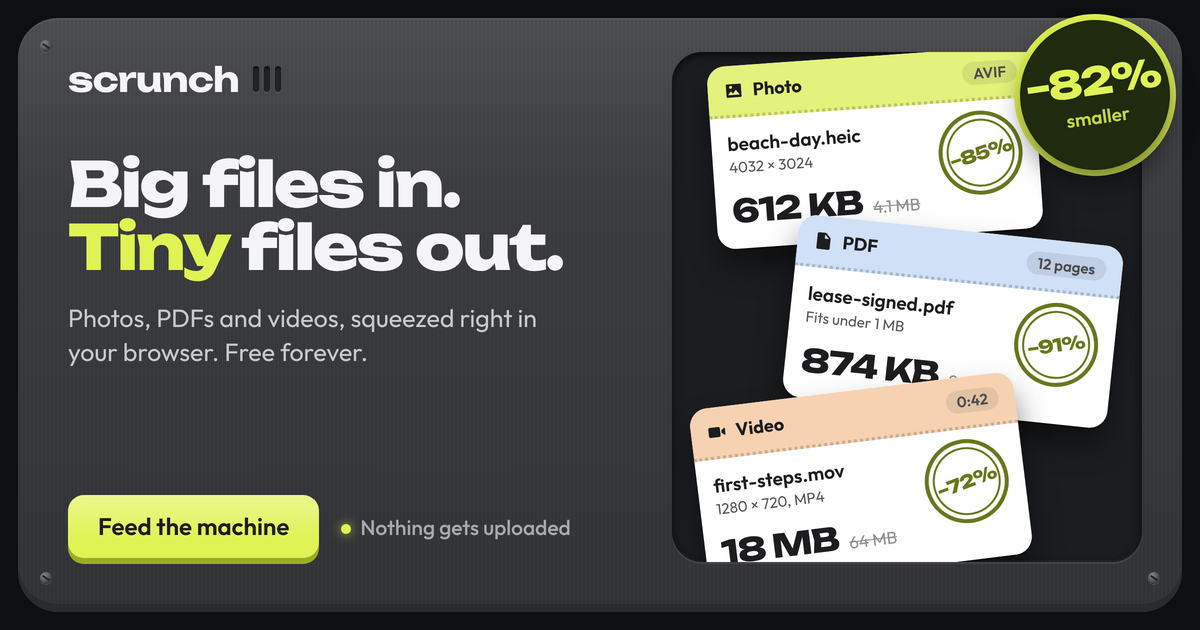
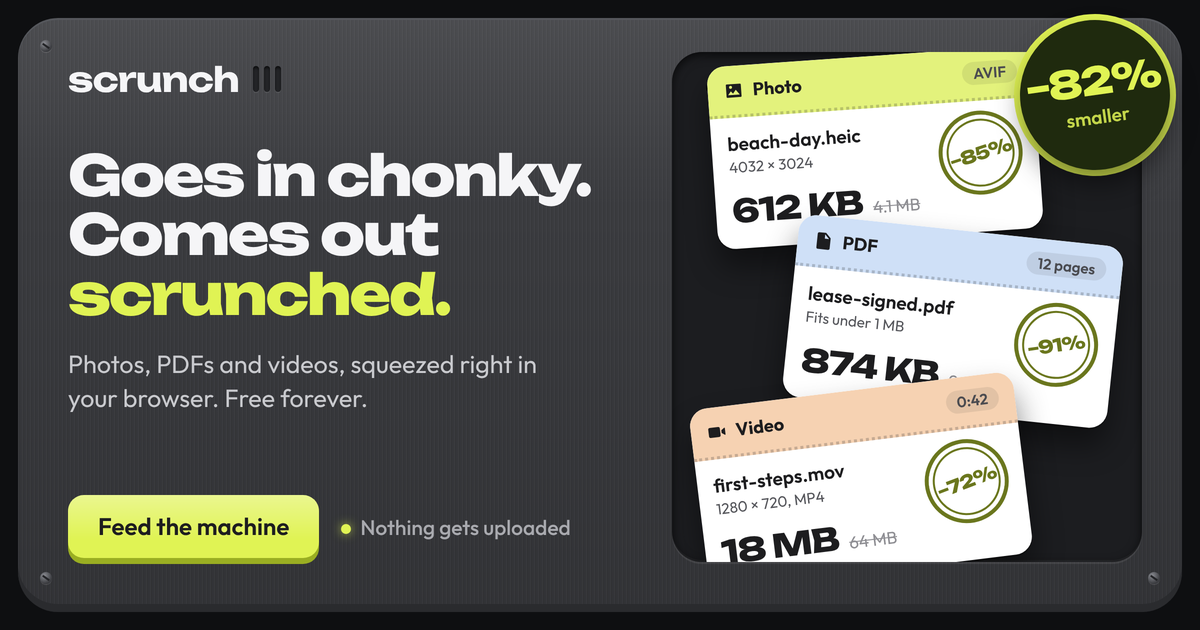
Share image headline: Goes in chonky. Comes out scrunched.
Claude-Session: https://claude.ai/code/session_01Qjr7aEw9Y4GHDeQv9Kibob

Changed region(s): [[0.0308, 0.2413, 0.4933, 0.6635]]

diff --git a/index.html b/index.html
@@ -17,7 +17,7 @@
 <meta property="og:image" content="https://scrunch.guptamohit.com/og.png?v=2">
 <meta property="og:image:width" content="1200">
 <meta property="og:image:height" content="630">
-<meta property="og:image:alt" content="Scrunch: big files in, tiny files out. Photo, PDF and video tickets stamped with how much smaller they got.">
+<meta property="og:image:alt" content="Scrunch: goes in chonky, comes out scrunched. Photo, PDF and video tickets stamped with how much smaller they got.">
 <meta name="twitter:card" content="summary_large_image">
 <meta name="twitter:title" content="Scrunch: free image, PDF and video compressor">
 <meta name="twitter:description" content="Shrink photos, PDFs and videos right in your browser. Free forever, nothing uploaded, made to fit any upload limit.">
